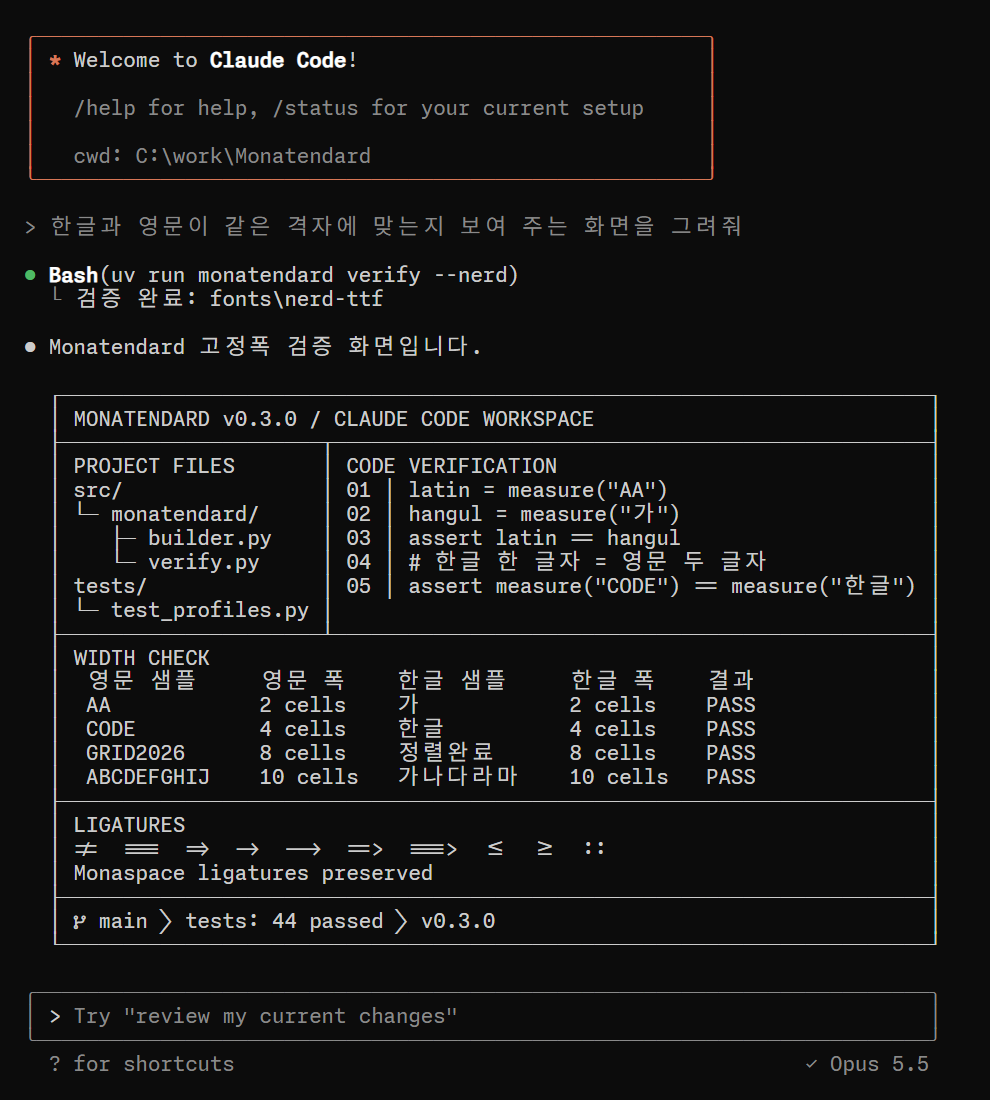
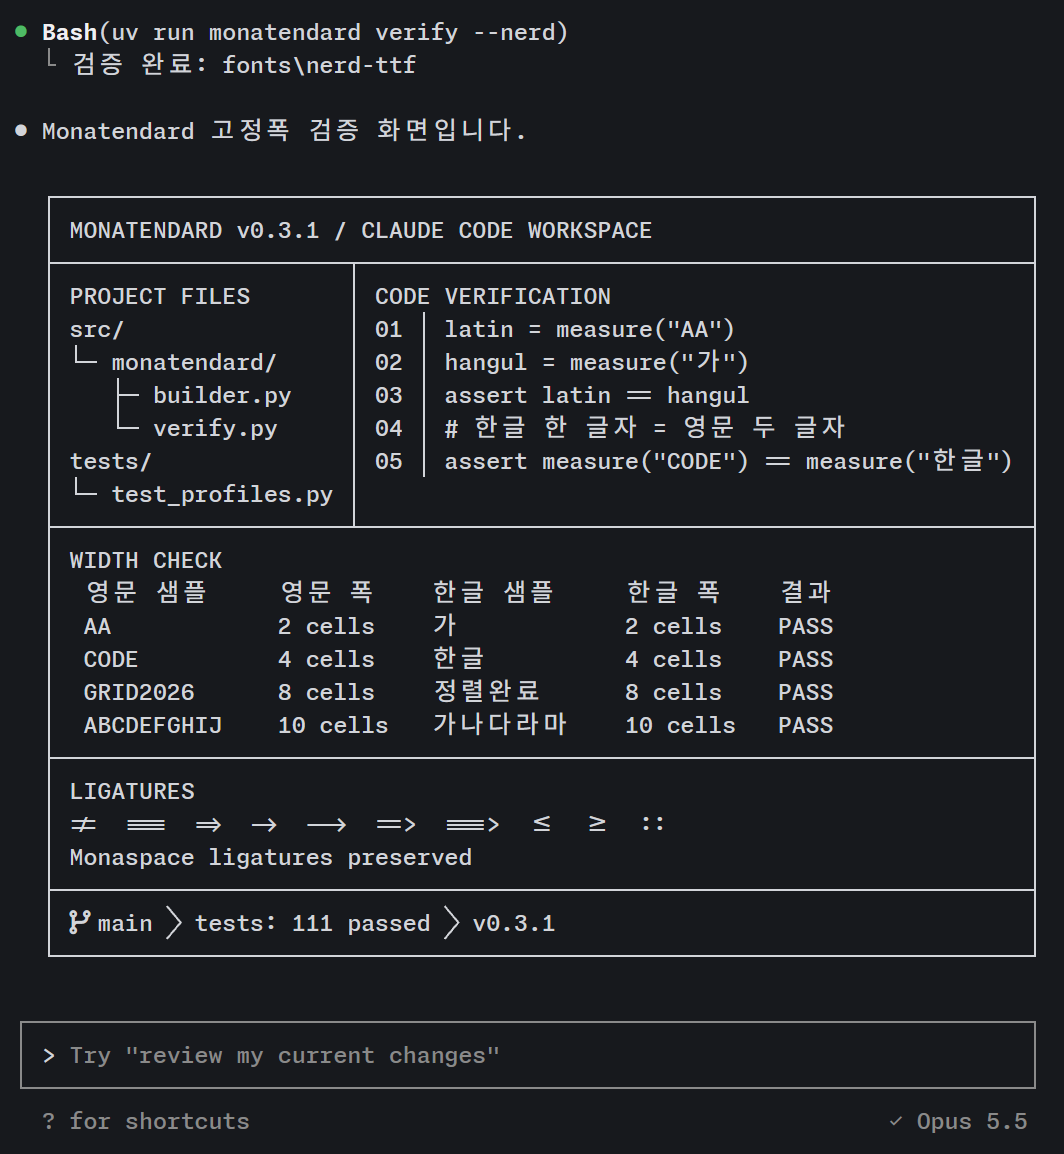
README 화면을 Herdr 터미널 캡처로 교체
render_preview에 --ansi 출력을 추가해 같은 화면을 터미널에서 재현한다.

diff --git a/tools/render_preview.py b/tools/render_preview.py
@@ -5,6 +5,10 @@ Windows의 Edge(Chromium)는 글꼴을 DirectWrite로 그리므로 Windows Termi
 
     uv run monatendard build-nerd --variants Regular
     uv run python tools/render_preview.py
+
+README 이미지는 같은 화면을 터미널에 출력해 캡처한 뒤 터미널 영역만 잘라 만든다.
+
+    uv run python tools/render_preview.py --ansi
 """
 
 from __future__ import annotations
@@ -13,6 +17,7 @@ import argparse
 import html
 import shutil
 import subprocess
+import sys
 import tempfile
 import unicodedata
 from pathlib import Path
@@ -115,7 +120,7 @@ def workspace(indent: str) -> list[Line]:
     out.append("│" + row("Monaspace ligatures preserved") + "│")
     out.append("├" + "─" * full + "┤")
     out.append(
-        "│" + row(f"\uf126 main \ue0b1 tests: 44 passed \ue0b1 v{__version__}") + "│"
+        "│" + row(f"\uf126 main \ue0b1 tests: 111 passed \ue0b1 v{__version__}") + "│"
     )
     out.append("└" + "─" * full + "┘")
     return [[(indent, ""), (line, "")] for line in out]
@@ -162,6 +167,26 @@ def line_height(font: Path) -> float:
         return (os2.usWinAscent + os2.usWinDescent) / ttf["head"].unitsPerEm
 
 
+ANSI_STYLES = {
+    "accent": "\x1b[38;2;215;119;87m",
+    "dim": "\x1b[38;2;138;138;138m",
+    "bold": "\x1b[1;97m",
+    "ok": "\x1b[38;2;78;186;101m",
+}
+
+
+def render_ansi() -> str:
+    """같은 화면을 터미널용 ANSI 문자열로 만든다."""
+    lines = []
+    for line in screen():
+        lines.append(
+            "".join(
+                f"{ANSI_STYLES[style]}{text}\x1b[0m" if style else text for text, style in line
+            )
+        )
+    return "\n".join(lines)
+
+
 def render_html(font: Path) -> str:
     lines = []
     for line in screen():
@@ -193,7 +218,13 @@ def main() -> int:
     parser = argparse.ArgumentParser(description=__doc__.splitlines()[0])
     parser.add_argument("--font", type=Path, default=FONT)
     parser.add_argument("--output", type=Path, default=OUTPUT)
+    parser.add_argument("--ansi", action="store_true", help="화면을 터미널에 출력한다")
     args = parser.parse_args()
+
+    if args.ansi:
+        sys.stdout.reconfigure(encoding="utf-8")
+        print(render_ansi())
+        return 0
 
     if not args.font.exists():
         parser.error(f"글꼴이 없습니다: {args.font}. 먼저 build-nerd를 실행하세요.")
